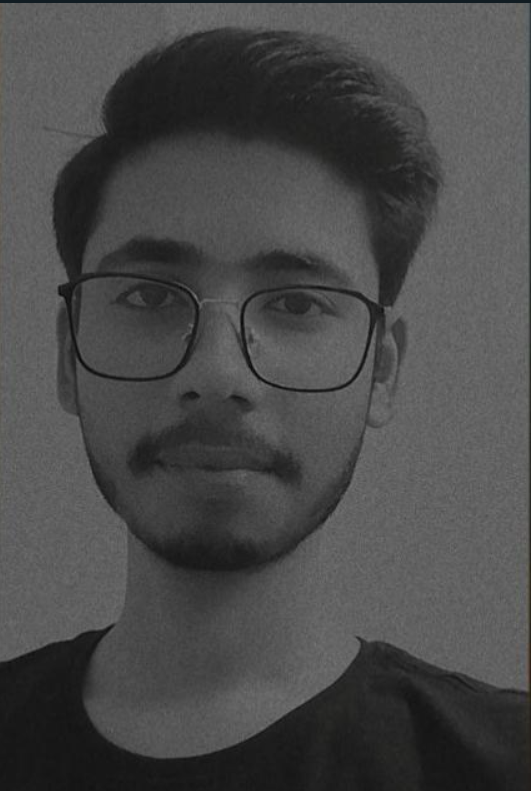
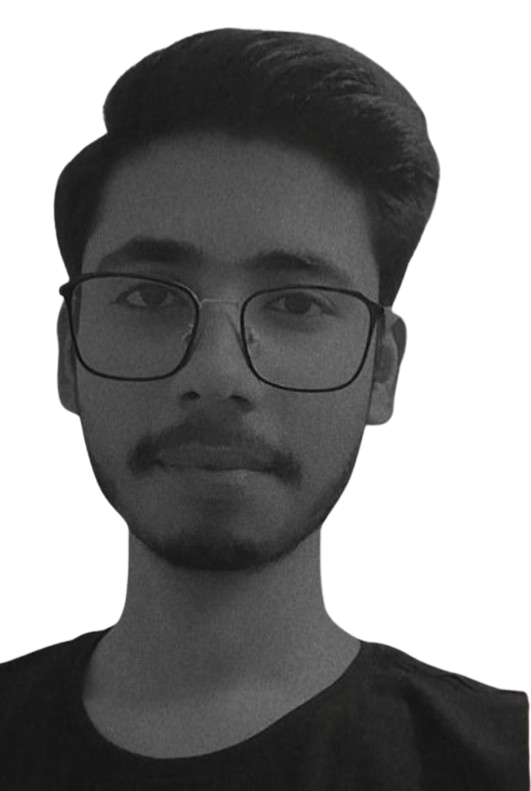
Did the basic styling of the Intro section

diff --git a/src/components/Intro/Intro.jsx b/src/components/Intro/Intro.jsx
@@ -10,9 +10,9 @@ export default function Intro() {
     <section id="intro">
         <div className="introContent">
             <span className="hello">Hello,</span>
-            <span className="introText">I'm <span className="introName">Harikesh</span> <br/> Full-Stack Web Developer</span>
+            <span className="introText">I'm <span className="introName">Harikesh</span> <br/> Web Developer</span>
             <p className="introPara">
-                Lorem ipsum dolor sit amet, consectetur adipisicing elit. Molestiae sequi repellendus deleniti eligendi quae! Numquam ipsum fugiat aspernatur assumenda, soluta excepturi nemo? A, iusto laborum? Deserunt fugit ut a quibusdam?
+            I'm a passionate full-stack web developer with a creative mindset <br /> and a penchant for turning ideas into reality. With a strong foundation <br /> in both front-end and back-end technologies, I bring websites and <br /> web applications to life, crafting seamless user experiences and robust <br /> functionality.
             </p>
             <Link><button className="btn"><img src={hireMeLogo} alt="Hire Me" /> Hire Me</button></Link>
         </div>

diff --git a/src/components/Intro/Intro.css b/src/components/Intro/Intro.css
@@ -9,7 +9,7 @@
 
 .myPhoto {
     position: absolute;
-    top: -4rem;
+    top: -1rem;
     right: 0;
     z-index: -1;
     object-fit: cover;
@@ -37,8 +37,9 @@
 }
 
 .introPara {
-    font-size: medium;
+    font-size: small;
     font-weight: 100;
+    letter-spacing: 1px;
 }
 
 .btn {
@@ -47,4 +48,34 @@
     padding: 0.75rem 2rem;
     border: none;
     border-radius: 2rem;
+    display: flex;
+    flex-direction: row;
+    justify-content: center;
+    align-items: center;
+}
+
+.btn img {
+    object-fit: cover;
+    height: 1rem;
+    margin-right: .5rem;
+}
+
+@media screen and (max-width: 840px) {
+    .myPhoto {
+        right: -12vw;
+    }
+
+    .introContent {
+        font-size: 10vw;
+    }
+
+    .hello {
+        font-size: 4.5vw;
+    }
+}
+
+@media screen and (max-width: 480px) {
+    .myPhoto {
+        right: -26vw;
+    }
 }
